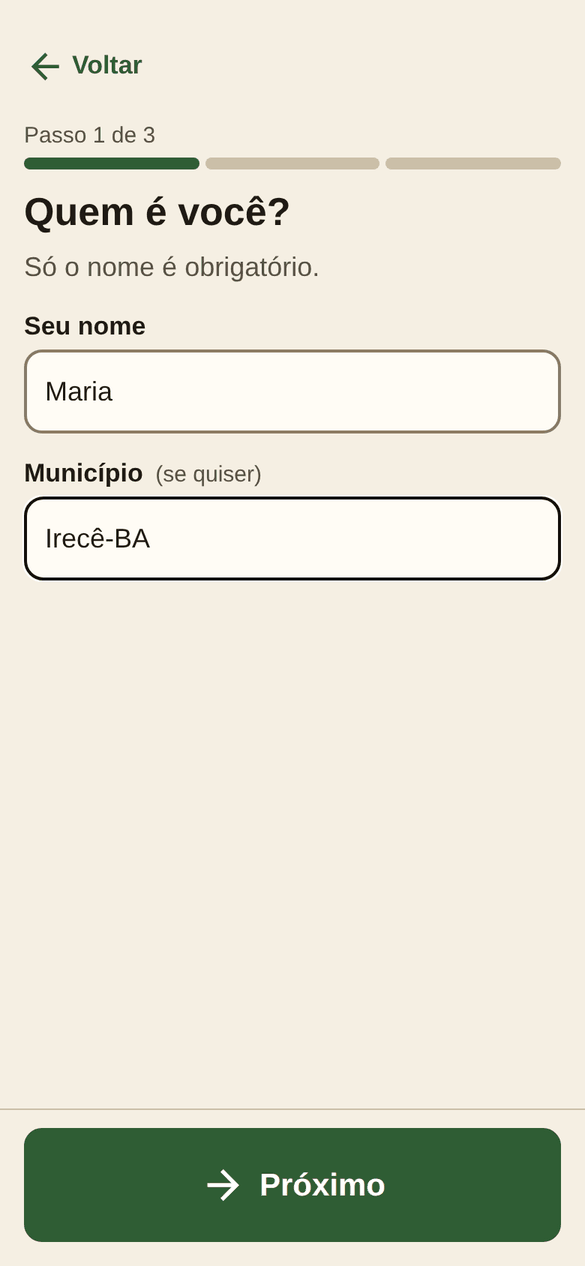
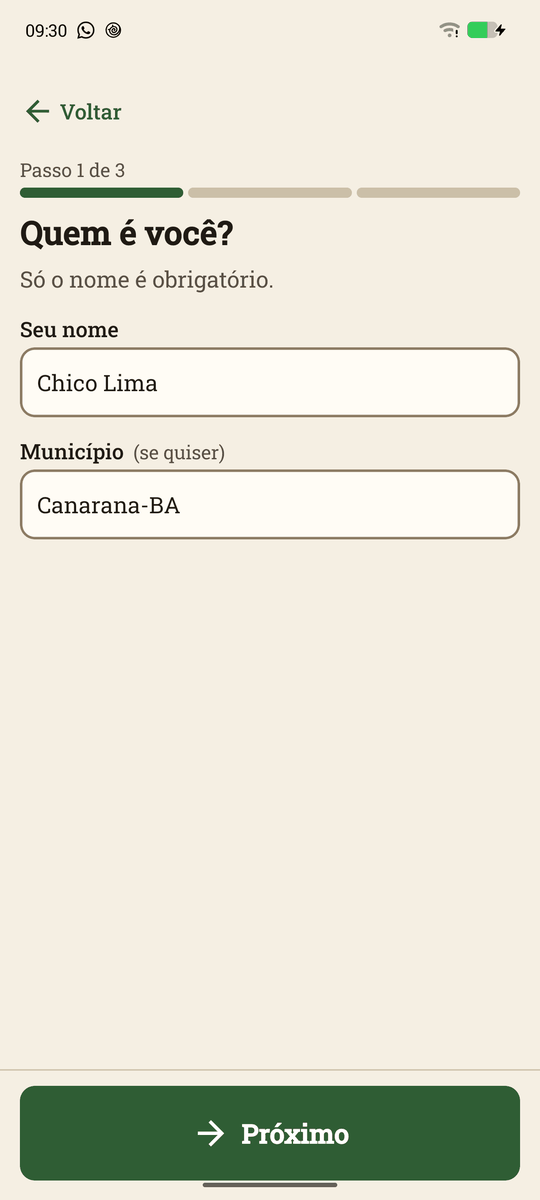
docs: telas capturadas no celular e galeria organizada por fluxo no README

diff --git a/docs/telas/README.md b/docs/telas/README.md
@@ -1,99 +1,176 @@
 # Telas
 
-As 31 capturas do aplicativo, numeradas na ordem em que a pessoa encontra cada tela. O nome do arquivo segue o mesmo número. O passo a passo completo de cada tela está em [fluxos.md](../fluxos.md).
+As 31 telas do aplicativo, numeradas na ordem em que a pessoa encontra cada uma. O nome do arquivo segue o mesmo número. As capturas foram tiradas num celular Android com o app instalado, usando produtores fictícios (os dados de exemplo do próprio app e um cadastro de teste). O passo a passo completo está em [fluxos.md](../fluxos.md).
 
 | Parte | Telas |
 | --- | --- |
-| Primeiro uso | 01 a 05 |
-| Início | 06 a 07 |
-| Anotar | 08 a 15 |
-| Caderno, resumos e colheita | 16 a 19 |
-| Visita de pares | 20 |
-| Mais | 21 a 28 |
-| Ligar um celular a um caderno que já existe | 29 a 30 |
-| Outras | 31 |
+| [Primeiro uso](#primeiro-uso) | 01 a 05 |
+| [Início](#início) | 06 a 07 |
+| [Anotar](#anotar) | 08 a 15 |
+| [Caderno, resumos e colheita](#caderno-resumos-e-colheita) | 16 a 19 |
+| [Visita de pares](#visita-de-pares) | 20 |
+| [Mais](#mais) | 21 a 28 |
+| [Ligar um celular a um caderno que já existe](#ligar-um-celular-a-um-caderno-que-já-existe) | 29 a 30 |
+| [Outras](#outras) | 31 |
 
 ## Primeiro uso
 
 Aparece só na primeira vez que o app é aberto.
 
-| Nº | Tela | Como chegar | O que faz | Captura |
-| --- | --- | --- | --- | --- |
-| 01 | **Boas-vindas** | Abrir o app pela primeira vez | Explica o app em três frases. Daqui dá para começar, ver com dados de exemplo ou ligar um caderno que já existe. | <a href="01-boas-vindas.png"><img src="01-boas-vindas.png" alt="Boas-vindas" width="160"></a> |
-| 02 | **Passo 1: Quem é você?** | Tocar em Começar | Nome e município do produtor. | <a href="02-cadastro-nome.png"><img src="02-cadastro-nome.png" alt="Passo 1: Quem é você?" width="160"></a> |
-| 03 | **Passo 2: Sua certificação** | Avançar do passo 1 | Cooperativa ou núcleo e dados da certificação participativa. Tudo opcional. | <a href="03-cadastro-certificacao.png"><img src="03-cadastro-certificacao.png" alt="Passo 2: Sua certificação" width="160"></a> |
-| 04 | **Passo 3: Sua roça** | Avançar do passo 2 | Áreas e culturas que vão aparecer na hora de anotar. | <a href="04-cadastro-roca.png"><img src="04-cadastro-roca.png" alt="Passo 3: Sua roça" width="160"></a> |
-| 05 | **Guardar uma cópia na internet?** | Terminar o passo 3 | Pergunta única, sem e-mail nem senha. Quem recusa continua usando o app só no celular. | <a href="05-cadastro-copia-internet.png"><img src="05-cadastro-copia-internet.png" alt="Guardar uma cópia na internet?" width="160"></a> |
+<table>
+  <tr>
+    <td align="center" valign="top"><a href="01-boas-vindas.png"><img src="01-boas-vindas.png" alt="Boas-vindas" width="200"></a><br><sub><b>01</b> · Boas-vindas</sub></td>
+    <td align="center" valign="top"><a href="02-cadastro-nome.png"><img src="02-cadastro-nome.png" alt="Passo 1: Quem é você?" width="200"></a><br><sub><b>02</b> · Passo 1: Quem é você?</sub></td>
+    <td align="center" valign="top"><a href="03-cadastro-certificacao.png"><img src="03-cadastro-certificacao.png" alt="Passo 2: Sua certificação" width="200"></a><br><sub><b>03</b> · Passo 2: Sua certificação</sub></td>
+    <td align="center" valign="top"><a href="04-cadastro-roca.png"><img src="04-cadastro-roca.png" alt="Passo 3: Sua roça" width="200"></a><br><sub><b>04</b> · Passo 3: Sua roça</sub></td>
+  </tr>
+  <tr>
+    <td align="center" valign="top"><a href="05-cadastro-copia-internet.png"><img src="05-cadastro-copia-internet.png" alt="Guardar uma cópia na internet?" width="200"></a><br><sub><b>05</b> · Guardar uma cópia na internet?</sub></td>
+  </tr>
+</table>
+
+| Nº | Tela | Como chegar | O que faz |
+| --- | --- | --- | --- |
+| 01 | **Boas-vindas** | Abrir o app pela primeira vez | Explica o app em três frases. Daqui dá para começar, ver com dados de exemplo ou ligar um caderno que já existe. |
+| 02 | **Passo 1: Quem é você?** | Tocar em Começar | Nome e município do produtor. |
+| 03 | **Passo 2: Sua certificação** | Avançar do passo 1 | Cooperativa ou núcleo e dados da certificação participativa. Tudo opcional. |
+| 04 | **Passo 3: Sua roça** | Avançar do passo 2 | Áreas e culturas que vão aparecer na hora de anotar. |
+| 05 | **Guardar uma cópia na internet?** | Terminar o passo 3 | Pergunta única, sem e-mail nem senha. Quem recusa continua usando o app só no celular. |
 
 ## Início
 
 Primeira aba. É onde o app abre no dia a dia.
 
-| Nº | Tela | Como chegar | O que faz | Captura |
-| --- | --- | --- | --- | --- |
-| 06 | **Início** | Abrir o app | Resumo da semana, atalho grande para anotar e o indicador da cópia na internet. | <a href="06-inicio.png"><img src="06-inicio.png" alt="Início" width="160"></a> |
-| 07 | **Início com a cópia ligada** | Abrir o app com a cópia na internet aceita | O indicador mostra "Tudo guardado na internet". | <a href="07-inicio-copia-ligada.png"><img src="07-inicio-copia-ligada.png" alt="Início com a cópia ligada" width="160"></a> |
+<table>
+  <tr>
+    <td align="center" valign="top"><a href="06-inicio.png"><img src="06-inicio.png" alt="Início" width="200"></a><br><sub><b>06</b> · Início</sub></td>
+    <td align="center" valign="top"><a href="07-inicio-copia-ligada.png"><img src="07-inicio-copia-ligada.png" alt="Início com a cópia ligada" width="200"></a><br><sub><b>07</b> · Início com a cópia ligada</sub></td>
+  </tr>
+</table>
+
+| Nº | Tela | Como chegar | O que faz |
+| --- | --- | --- | --- |
+| 06 | **Início** | Abrir o app | Resumo da semana, atalho grande para anotar e o indicador da cópia na internet. |
+| 07 | **Início com a cópia ligada** | Abrir o app com a cópia na internet aceita | O indicador mostra "Tudo guardado na internet". |
 
 ## Anotar
 
 Passo a passo de uma anotação, uma escolha por tela. Abre pelo botão Anotar da barra de baixo.
 
-| Nº | Tela | Como chegar | O que faz | Captura |
-| --- | --- | --- | --- | --- |
-| 08 | **Onde foi?** | Tocar em Anotar | Escolha da área. O app lembra a última usada. | <a href="08-anotar-1-area.png"><img src="08-anotar-1-area.png" alt="Onde foi?" width="160"></a> |
-| 09 | **Qual cultura?** | Escolher a área | Culturas da roça, com as mais usadas no topo. | <a href="09-anotar-2-cultura.png"><img src="09-anotar-2-cultura.png" alt="Qual cultura?" width="160"></a> |
-| 10 | **O que você fez?** | Escolher a cultura | Plantio, adubação ou calda, rega, capina, colheita, venda, compra ou outra. | <a href="10-anotar-3-atividade.png"><img src="10-anotar-3-atividade.png" alt="O que você fez?" width="160"></a> |
-| 11 | **De onde veio a semente?** | Escolher Plantio | Detalhe que só aparece para a atividade escolhida. Aqui, a origem da semente. | <a href="11-anotar-4-origem-semente.png"><img src="11-anotar-4-origem-semente.png" alt="De onde veio a semente?" width="160"></a> |
-| 12 | **Quanto?** | Avançar dos detalhes | Teclado numérico grande do próprio app e a unidade. | <a href="12-anotar-5-quantidade.png"><img src="12-anotar-5-quantidade.png" alt="Quanto?" width="160"></a> |
-| 13 | **Confira e salve** | Informar a quantidade | A anotação em uma frase, com data e observação. | <a href="13-anotar-6-revisao.png"><img src="13-anotar-6-revisao.png" alt="Confira e salve" width="160"></a> |
-| 14 | **Confira e salve: recado de voz e foto** | Rolar a tela de revisão | Gravar um recado de até 60 segundos e juntar uma foto. | <a href="14-anotar-7-revisao-recado-e-foto.png"><img src="14-anotar-7-revisao-recado-e-foto.png" alt="Confira e salve: recado de voz e foto" width="160"></a> |
-| 15 | **Anotado!** | Tocar em Salvar | Confirmação, com o botão Desfazer e o atalho para anotar outra. | <a href="15-anotar-8-anotado.png"><img src="15-anotar-8-anotado.png" alt="Anotado!" width="160"></a> |
+<table>
+  <tr>
+    <td align="center" valign="top"><a href="08-anotar-1-area.png"><img src="08-anotar-1-area.png" alt="Onde foi?" width="200"></a><br><sub><b>08</b> · Onde foi?</sub></td>
+    <td align="center" valign="top"><a href="09-anotar-2-cultura.png"><img src="09-anotar-2-cultura.png" alt="Qual cultura?" width="200"></a><br><sub><b>09</b> · Qual cultura?</sub></td>
+    <td align="center" valign="top"><a href="10-anotar-3-atividade.png"><img src="10-anotar-3-atividade.png" alt="O que você fez?" width="200"></a><br><sub><b>10</b> · O que você fez?</sub></td>
+    <td align="center" valign="top"><a href="11-anotar-4-origem-semente.png"><img src="11-anotar-4-origem-semente.png" alt="De onde veio a semente?" width="200"></a><br><sub><b>11</b> · De onde veio a semente?</sub></td>
+  </tr>
+  <tr>
+    <td align="center" valign="top"><a href="12-anotar-5-quantidade.png"><img src="12-anotar-5-quantidade.png" alt="Quanto?" width="200"></a><br><sub><b>12</b> · Quanto?</sub></td>
+    <td align="center" valign="top"><a href="13-anotar-6-revisao.png"><img src="13-anotar-6-revisao.png" alt="Confira e salve" width="200"></a><br><sub><b>13</b> · Confira e salve</sub></td>
+    <td align="center" valign="top"><a href="14-anotar-7-revisao-recado-e-foto.png"><img src="14-anotar-7-revisao-recado-e-foto.png" alt="Confira e salve: recado de voz e foto" width="200"></a><br><sub><b>14</b> · Confira e salve: recado de voz e foto</sub></td>
+    <td align="center" valign="top"><a href="15-anotar-8-anotado.png"><img src="15-anotar-8-anotado.png" alt="Anotado!" width="200"></a><br><sub><b>15</b> · Anotado!</sub></td>
+  </tr>
+</table>
+
+| Nº | Tela | Como chegar | O que faz |
+| --- | --- | --- | --- |
+| 08 | **Onde foi?** | Tocar em Anotar | Escolha da área. O app lembra a última usada. |
+| 09 | **Qual cultura?** | Escolher a área | Culturas da roça, com as mais usadas no topo. |
+| 10 | **O que você fez?** | Escolher a cultura | Plantio, adubação ou calda, rega, capina, colheita, venda, compra ou outra. |
+| 11 | **De onde veio a semente?** | Escolher Plantio | Detalhe que só aparece para a atividade escolhida. Aqui, a origem da semente. |
+| 12 | **Quanto?** | Avançar dos detalhes | Teclado numérico grande do próprio app e a unidade. |
+| 13 | **Confira e salve** | Informar a quantidade | A anotação em uma frase, com data e observação. |
+| 14 | **Confira e salve: recado de voz e foto** | Rolar a tela de revisão | Recado de até 60 segundos, que dá para ouvir, regravar e apagar antes de salvar, e a foto pela câmera ou galeria. |
+| 15 | **Anotado!** | Tocar em Salvar | Confirmação, com o botão Desfazer e o atalho para anotar outra. |
 
 ## Caderno, resumos e colheita
 
 O que o app devolve a partir das anotações.
 
-| Nº | Tela | Como chegar | O que faz | Captura |
-| --- | --- | --- | --- | --- |
-| 16 | **Caderno** | Aba Caderno | Histórico por dia. Tocar numa anotação abre para ouvir o recado, editar ou apagar. | <a href="16-caderno.png"><img src="16-caderno.png" alt="Caderno" width="160"></a> |
-| 17 | **Filtros do caderno** | Tocar em Filtrar, no Caderno | Filtra por área, cultura e atividade. | <a href="17-caderno-filtros.png"><img src="17-caderno-filtros.png" alt="Filtros do caderno" width="160"></a> |
-| 18 | **Resumos** | Aba Resumos | Semana ou mês na ordem do caderno de campo, com a caixa "Passei para o caderno" e o PDF. | <a href="18-resumos.png"><img src="18-resumos.png" alt="Resumos" width="160"></a> |
-| 19 | **Colheita e venda** | Cartão Colheita e venda, em Resumos, ou pelo Mais | Por cultura: quanto colheu, vendeu, recebeu e o que sobrou. | <a href="19-colheita-venda.png"><img src="19-colheita-venda.png" alt="Colheita e venda" width="160"></a> |
+<table>
+  <tr>
+    <td align="center" valign="top"><a href="16-caderno.png"><img src="16-caderno.png" alt="Caderno" width="200"></a><br><sub><b>16</b> · Caderno</sub></td>
+    <td align="center" valign="top"><a href="17-caderno-filtros.png"><img src="17-caderno-filtros.png" alt="Filtros do caderno" width="200"></a><br><sub><b>17</b> · Filtros do caderno</sub></td>
+    <td align="center" valign="top"><a href="18-resumos.png"><img src="18-resumos.png" alt="Resumos" width="200"></a><br><sub><b>18</b> · Resumos</sub></td>
+    <td align="center" valign="top"><a href="19-colheita-venda.png"><img src="19-colheita-venda.png" alt="Colheita e venda" width="200"></a><br><sub><b>19</b> · Colheita e venda</sub></td>
+  </tr>
+</table>
+
+| Nº | Tela | Como chegar | O que faz |
+| --- | --- | --- | --- |
+| 16 | **Caderno** | Aba Caderno | Histórico por dia. Tocar numa anotação abre para ouvir o recado, editar ou apagar. |
+| 17 | **Filtros do caderno** | Tocar em Filtrar, no Caderno | Filtra por área, cultura e atividade. |
+| 18 | **Resumos** | Aba Resumos | Semana ou mês na ordem do caderno de campo, com a caixa "Passei para o caderno" e o PDF. |
+| 19 | **Colheita e venda** | Cartão Colheita e venda, em Resumos, ou pelo Mais | Por cultura: quanto colheu, vendeu, recebeu e o que sobrou. |
 
 ## Visita de pares
 
 Apoio para a visita. Não substitui o roteiro do grupo.
 
-| Nº | Tela | Como chegar | O que faz | Captura |
-| --- | --- | --- | --- | --- |
-| 20 | **Pronto para a visita** | Aba Visita | Itens conferidos sozinhos a partir das anotações, itens que o produtor marca e o PDF para a visita. | <a href="20-visita.png"><img src="20-visita.png" alt="Pronto para a visita" width="160"></a> |
+<table>
+  <tr>
+    <td align="center" valign="top"><a href="20-visita.png"><img src="20-visita.png" alt="Pronto para a visita" width="200"></a><br><sub><b>20</b> · Pronto para a visita</sub></td>
+  </tr>
+</table>
+
+| Nº | Tela | Como chegar | O que faz |
+| --- | --- | --- | --- |
+| 20 | **Pronto para a visita** | Aba Visita | Itens conferidos sozinhos a partir das anotações, itens que o produtor marca e o PDF para a visita. |
 
 ## Mais
 
 Última aba. Reúne cadastro, ficha e cópias.
 
-| Nº | Tela | Como chegar | O que faz | Captura |
-| --- | --- | --- | --- | --- |
-| 21 | **Mais** | Aba Mais | Menu com Meus dados, Áreas e culturas, Minha ficha, Cópia na internet, Cópia de segurança, Colheita e venda e Sobre. | <a href="21-mais.png"><img src="21-mais.png" alt="Mais" width="160"></a> |
-| 22 | **Meus dados** | Mais → Meus dados | Os mesmos dados do cadastro, para corrigir quando precisar. | <a href="22-meus-dados.png"><img src="22-meus-dados.png" alt="Meus dados" width="160"></a> |
-| 23 | **Áreas e culturas** | Mais → Áreas e culturas | Incluir, renomear e tirar áreas e culturas. | <a href="23-areas-e-culturas.png"><img src="23-areas-e-culturas.png" alt="Áreas e culturas" width="160"></a> |
-| 24 | **Minha ficha (QR)** | Mais → Minha ficha | QR para o comprador ler, link para compartilhar e cartão em PDF. | <a href="24-minha-ficha-qr.png"><img src="24-minha-ficha-qr.png" alt="Minha ficha (QR)" width="160"></a> |
-| 25 | **Cópia de segurança** | Mais → Cópia de segurança | Fotos das páginas do caderno de papel e exportar ou importar tudo num arquivo. | <a href="25-copia-de-seguranca.png"><img src="25-copia-de-seguranca.png" alt="Cópia de segurança" width="160"></a> |
-| 26 | **Cópia na internet: ligar outro celular** | Mais → Cópia na internet | Situação do envio e o QR (ou código) que leva o caderno para outro aparelho. | <a href="26-copia-na-internet-ligar-outro-celular.png"><img src="26-copia-na-internet-ligar-outro-celular.png" alt="Cópia na internet: ligar outro celular" width="160"></a> |
-| 27 | **Cópia na internet: cartão, parar e apagar** | Rolar a tela Cópia na internet | Cartão de recuperação para imprimir, parar de guardar e apagar a cópia. | <a href="27-copia-na-internet-cartao-e-apagar.png"><img src="27-copia-na-internet-cartao-e-apagar.png" alt="Cópia na internet: cartão, parar e apagar" width="160"></a> |
-| 28 | **Sobre o app** | Mais → Sobre | O que o app é e o que ele não faz. | <a href="28-sobre.png"><img src="28-sobre.png" alt="Sobre o app" width="160"></a> |
+<table>
+  <tr>
+    <td align="center" valign="top"><a href="21-mais.png"><img src="21-mais.png" alt="Mais" width="200"></a><br><sub><b>21</b> · Mais</sub></td>
+    <td align="center" valign="top"><a href="22-meus-dados.png"><img src="22-meus-dados.png" alt="Meus dados" width="200"></a><br><sub><b>22</b> · Meus dados</sub></td>
+    <td align="center" valign="top"><a href="23-areas-e-culturas.png"><img src="23-areas-e-culturas.png" alt="Áreas e culturas" width="200"></a><br><sub><b>23</b> · Áreas e culturas</sub></td>
+    <td align="center" valign="top"><a href="24-minha-ficha-qr.png"><img src="24-minha-ficha-qr.png" alt="Minha ficha (QR)" width="200"></a><br><sub><b>24</b> · Minha ficha (QR)</sub></td>
+  </tr>
+  <tr>
+    <td align="center" valign="top"><a href="25-copia-de-seguranca.png"><img src="25-copia-de-seguranca.png" alt="Cópia de segurança" width="200"></a><br><sub><b>25</b> · Cópia de segurança</sub></td>
+    <td align="center" valign="top"><a href="26-copia-na-internet.png"><img src="26-copia-na-internet.png" alt="Cópia na internet" width="200"></a><br><sub><b>26</b> · Cópia na internet</sub></td>
+    <td align="center" valign="top"><a href="27-copia-na-internet-codigo-para-ligar.png"><img src="27-copia-na-internet-codigo-para-ligar.png" alt="Código para ligar outro celular" width="200"></a><br><sub><b>27</b> · Código para ligar outro celular</sub></td>
+    <td align="center" valign="top"><a href="28-sobre.png"><img src="28-sobre.png" alt="Sobre o app" width="200"></a><br><sub><b>28</b> · Sobre o app</sub></td>
+  </tr>
+</table>
+
+| Nº | Tela | Como chegar | O que faz |
+| --- | --- | --- | --- |
+| 21 | **Mais** | Aba Mais | Menu com Meus dados, Áreas e culturas, Minha ficha, Cópia na internet, Cópia de segurança, Colheita e venda e Sobre. No fim da tela fica o tamanho da letra. |
+| 22 | **Meus dados** | Mais → Meus dados | Os mesmos dados do cadastro, para corrigir quando precisar. |
+| 23 | **Áreas e culturas** | Mais → Áreas e culturas | Incluir, renomear e tirar áreas e culturas. |
+| 24 | **Minha ficha (QR)** | Mais → Minha ficha | QR para o comprador ler, link para compartilhar e cartão em PDF. |
+| 25 | **Cópia de segurança** | Mais → Cópia de segurança | Fotos das páginas do caderno de papel e exportar ou importar tudo num arquivo. |
+| 26 | **Cópia na internet** | Mais → Cópia na internet, ou tocar no indicador do Início | Situação do envio, ligar outro celular, cartão de recuperação para imprimir, parar de guardar e apagar a cópia. |
+| 27 | **Código para ligar outro celular** | Cópia na internet → Mostrar código para ligar | QR e código em texto que levam o mesmo caderno para outro aparelho, com o aviso de só mostrar para quem confia. |
+| 28 | **Sobre o app** | Mais → Sobre | O que o app é e o que ele não faz. |
 
 ## Ligar um celular a um caderno que já existe
 
 Para celular novo ou segundo aparelho.
 
-| Nº | Tela | Como chegar | O que faz | Captura |
-| --- | --- | --- | --- | --- |
-| 29 | **Já tenho um caderno** | Boas-vindas → Já tenho um caderno | Ler o código com a câmera ou colar o código no campo. | <a href="29-ja-tenho-um-caderno.png"><img src="29-ja-tenho-um-caderno.png" alt="Já tenho um caderno" width="160"></a> |
-| 30 | **Ligar este celular?** | Ler o QR ou colar um código válido | Confirmação antes de baixar o caderno para este aparelho. | <a href="30-ja-tenho-um-caderno-confirmar.png"><img src="30-ja-tenho-um-caderno-confirmar.png" alt="Ligar este celular?" width="160"></a> |
+<table>
+  <tr>
+    <td align="center" valign="top"><a href="29-ja-tenho-um-caderno.png"><img src="29-ja-tenho-um-caderno.png" alt="Já tenho um caderno" width="200"></a><br><sub><b>29</b> · Já tenho um caderno</sub></td>
+    <td align="center" valign="top"><a href="30-ja-tenho-um-caderno-confirmar.png"><img src="30-ja-tenho-um-caderno-confirmar.png" alt="Ligar este celular?" width="200"></a><br><sub><b>30</b> · Ligar este celular?</sub></td>
+  </tr>
+</table>
+
+| Nº | Tela | Como chegar | O que faz |
+| --- | --- | --- | --- |
+| 29 | **Já tenho um caderno** | Boas-vindas → Já tenho um caderno | Ler o código com a câmera ou colar o código no campo. |
+| 30 | **Ligar este celular?** | Ler o QR ou colar um código válido | Confirmação antes de baixar o caderno para este aparelho. |
 
 ## Outras
 
-| Nº | Tela | Como chegar | O que faz | Captura |
-| --- | --- | --- | --- | --- |
-| 31 | **Página não encontrada** | Abrir um endereço que não existe | Aviso simples com o caminho de volta para o Início. | <a href="31-pagina-nao-encontrada.png"><img src="31-pagina-nao-encontrada.png" alt="Página não encontrada" width="160"></a> |
+<table>
+  <tr>
+    <td align="center" valign="top"><a href="31-pagina-nao-encontrada.png"><img src="31-pagina-nao-encontrada.png" alt="Página não encontrada" width="200"></a><br><sub><b>31</b> · Página não encontrada</sub></td>
+  </tr>
+</table>
+
+| Nº | Tela | Como chegar | O que faz |
+| --- | --- | --- | --- |
+| 31 | **Página não encontrada** | Abrir um endereço que não existe | Aviso simples com o caminho de volta para o Início. |

diff --git a/README.md b/README.md
@@ -7,7 +7,7 @@ App Android que deixa o agricultor agroecológico anotar a roça na hora, com po
   <img src="docs/telas/10-anotar-3-atividade.png" alt="Anotar: escolha da atividade" width="200">
   <img src="docs/telas/18-resumos.png" alt="Resumo da semana na ordem do caderno" width="200">
   <img src="docs/telas/20-visita.png" alt="Lista de apoio para a visita de pares" width="200">
-  <img src="docs/telas/26-copia-na-internet-ligar-outro-celular.png" alt="Cópia na internet: código para ligar outro celular" width="200">
+  <img src="docs/telas/27-copia-na-internet-codigo-para-ligar.png" alt="Cópia na internet: código para ligar outro celular" width="200">
 </p>
 
 ## O problema
@@ -61,6 +61,119 @@ O Caderno de Bolso é um ajudante do caderno de campo, não um substituto. O pro
 - **Ligar outro celular:** um QR (ou código em texto) leva o mesmo caderno para outro aparelho, e o **cartão de recuperação** impresso guarda esse código em casa. Também dá para parar de guardar na internet ou apagar a cópia de lá.
 
 O passo a passo de cada tela, com o mapa de navegação e o fluxo principal em diagrama, está em [docs/fluxos.md](docs/fluxos.md). Todas as telas, numeradas na ordem de uso, estão em [docs/telas](docs/telas/README.md).
+
+<!-- telas:inicio -->
+## Telas
+
+As 31 telas do app, na ordem de uso, capturadas num celular Android. Toque numa imagem para ampliar. O índice com como chegar em cada tela e o que ela faz está em [docs/telas](docs/telas/README.md).
+
+### Primeiro uso
+
+Aparece só na primeira vez que o app é aberto.
+
+<table>
+  <tr>
+    <td align="center" valign="top"><a href="docs/telas/01-boas-vindas.png"><img src="docs/telas/01-boas-vindas.png" alt="Boas-vindas" width="170"></a><br><sub><b>01</b> · Boas-vindas</sub></td>
+    <td align="center" valign="top"><a href="docs/telas/02-cadastro-nome.png"><img src="docs/telas/02-cadastro-nome.png" alt="Passo 1: Quem é você?" width="170"></a><br><sub><b>02</b> · Passo 1: Quem é você?</sub></td>
+    <td align="center" valign="top"><a href="docs/telas/03-cadastro-certificacao.png"><img src="docs/telas/03-cadastro-certificacao.png" alt="Passo 2: Sua certificação" width="170"></a><br><sub><b>03</b> · Passo 2: Sua certificação</sub></td>
+    <td align="center" valign="top"><a href="docs/telas/04-cadastro-roca.png"><img src="docs/telas/04-cadastro-roca.png" alt="Passo 3: Sua roça" width="170"></a><br><sub><b>04</b> · Passo 3: Sua roça</sub></td>
+  </tr>
+  <tr>
+    <td align="center" valign="top"><a href="docs/telas/05-cadastro-copia-internet.png"><img src="docs/telas/05-cadastro-copia-internet.png" alt="Guardar uma cópia na internet?" width="170"></a><br><sub><b>05</b> · Guardar uma cópia na internet?</sub></td>
+  </tr>
+</table>
+
+### Início
+
+Primeira aba. É onde o app abre no dia a dia.
+
+<table>
+  <tr>
+    <td align="center" valign="top"><a href="docs/telas/06-inicio.png"><img src="docs/telas/06-inicio.png" alt="Início" width="170"></a><br><sub><b>06</b> · Início</sub></td>
+    <td align="center" valign="top"><a href="docs/telas/07-inicio-copia-ligada.png"><img src="docs/telas/07-inicio-copia-ligada.png" alt="Início com a cópia ligada" width="170"></a><br><sub><b>07</b> · Início com a cópia ligada</sub></td>
+  </tr>
+</table>
+
+### Anotar
+
+Passo a passo de uma anotação, uma escolha por tela. Abre pelo botão Anotar da barra de baixo.
+
+<table>
+  <tr>
+    <td align="center" valign="top"><a href="docs/telas/08-anotar-1-area.png"><img src="docs/telas/08-anotar-1-area.png" alt="Onde foi?" width="170"></a><br><sub><b>08</b> · Onde foi?</sub></td>
+    <td align="center" valign="top"><a href="docs/telas/09-anotar-2-cultura.png"><img src="docs/telas/09-anotar-2-cultura.png" alt="Qual cultura?" width="170"></a><br><sub><b>09</b> · Qual cultura?</sub></td>
+    <td align="center" valign="top"><a href="docs/telas/10-anotar-3-atividade.png"><img src="docs/telas/10-anotar-3-atividade.png" alt="O que você fez?" width="170"></a><br><sub><b>10</b> · O que você fez?</sub></td>
+    <td align="center" valign="top"><a href="docs/telas/11-anotar-4-origem-semente.png"><img src="docs/telas/11-anotar-4-origem-semente.png" alt="De onde veio a semente?" width="170"></a><br><sub><b>11</b> · De onde veio a semente?</sub></td>
+  </tr>
+  <tr>
+    <td align="center" valign="top"><a href="docs/telas/12-anotar-5-quantidade.png"><img src="docs/telas/12-anotar-5-quantidade.png" alt="Quanto?" width="170"></a><br><sub><b>12</b> · Quanto?</sub></td>
+    <td align="center" valign="top"><a href="docs/telas/13-anotar-6-revisao.png"><img src="docs/telas/13-anotar-6-revisao.png" alt="Confira e salve" width="170"></a><br><sub><b>13</b> · Confira e salve</sub></td>
+    <td align="center" valign="top"><a href="docs/telas/14-anotar-7-revisao-recado-e-foto.png"><img src="docs/telas/14-anotar-7-revisao-recado-e-foto.png" alt="Confira e salve: recado de voz e foto" width="170"></a><br><sub><b>14</b> · Confira e salve: recado de voz e foto</sub></td>
+    <td align="center" valign="top"><a href="docs/telas/15-anotar-8-anotado.png"><img src="docs/telas/15-anotar-8-anotado.png" alt="Anotado!" width="170"></a><br><sub><b>15</b> · Anotado!</sub></td>
+  </tr>
+</table>
+
+### Caderno, resumos e colheita
+
+O que o app devolve a partir das anotações.
+
+<table>
+  <tr>
+    <td align="center" valign="top"><a href="docs/telas/16-caderno.png"><img src="docs/telas/16-caderno.png" alt="Caderno" width="170"></a><br><sub><b>16</b> · Caderno</sub></td>
+    <td align="center" valign="top"><a href="docs/telas/17-caderno-filtros.png"><img src="docs/telas/17-caderno-filtros.png" alt="Filtros do caderno" width="170"></a><br><sub><b>17</b> · Filtros do caderno</sub></td>
+    <td align="center" valign="top"><a href="docs/telas/18-resumos.png"><img src="docs/telas/18-resumos.png" alt="Resumos" width="170"></a><br><sub><b>18</b> · Resumos</sub></td>
+    <td align="center" valign="top"><a href="docs/telas/19-colheita-venda.png"><img src="docs/telas/19-colheita-venda.png" alt="Colheita e venda" width="170"></a><br><sub><b>19</b> · Colheita e venda</sub></td>
+  </tr>
+</table>
+
+### Visita de pares
+
+Apoio para a visita. Não substitui o roteiro do grupo.
+
+<table>
+  <tr>
+    <td align="center" valign="top"><a href="docs/telas/20-visita.png"><img src="docs/telas/20-visita.png" alt="Pronto para a visita" width="170"></a><br><sub><b>20</b> · Pronto para a visita</sub></td>
+  </tr>
+</table>
+
+### Mais
+
+Última aba. Reúne cadastro, ficha e cópias.
+
+<table>
+  <tr>
+    <td align="center" valign="top"><a href="docs/telas/21-mais.png"><img src="docs/telas/21-mais.png" alt="Mais" width="170"></a><br><sub><b>21</b> · Mais</sub></td>
+    <td align="center" valign="top"><a href="docs/telas/22-meus-dados.png"><img src="docs/telas/22-meus-dados.png" alt="Meus dados" width="170"></a><br><sub><b>22</b> · Meus dados</sub></td>
+    <td align="center" valign="top"><a href="docs/telas/23-areas-e-culturas.png"><img src="docs/telas/23-areas-e-culturas.png" alt="Áreas e culturas" width="170"></a><br><sub><b>23</b> · Áreas e culturas</sub></td>
+    <td align="center" valign="top"><a href="docs/telas/24-minha-ficha-qr.png"><img src="docs/telas/24-minha-ficha-qr.png" alt="Minha ficha (QR)" width="170"></a><br><sub><b>24</b> · Minha ficha (QR)</sub></td>
+  </tr>
+  <tr>
+    <td align="center" valign="top"><a href="docs/telas/25-copia-de-seguranca.png"><img src="docs/telas/25-copia-de-seguranca.png" alt="Cópia de segurança" width="170"></a><br><sub><b>25</b> · Cópia de segurança</sub></td>
+    <td align="center" valign="top"><a href="docs/telas/26-copia-na-internet.png"><img src="docs/telas/26-copia-na-internet.png" alt="Cópia na internet" width="170"></a><br><sub><b>26</b> · Cópia na internet</sub></td>
+    <td align="center" valign="top"><a href="docs/telas/27-copia-na-internet-codigo-para-ligar.png"><img src="docs/telas/27-copia-na-internet-codigo-para-ligar.png" alt="Código para ligar outro celular" width="170"></a><br><sub><b>27</b> · Código para ligar outro celular</sub></td>
+    <td align="center" valign="top"><a href="docs/telas/28-sobre.png"><img src="docs/telas/28-sobre.png" alt="Sobre o app" width="170"></a><br><sub><b>28</b> · Sobre o app</sub></td>
+  </tr>
+</table>
+
+### Ligar um celular a um caderno que já existe
+
+Para celular novo ou segundo aparelho.
+
+<table>
+  <tr>
+    <td align="center" valign="top"><a href="docs/telas/29-ja-tenho-um-caderno.png"><img src="docs/telas/29-ja-tenho-um-caderno.png" alt="Já tenho um caderno" width="170"></a><br><sub><b>29</b> · Já tenho um caderno</sub></td>
+    <td align="center" valign="top"><a href="docs/telas/30-ja-tenho-um-caderno-confirmar.png"><img src="docs/telas/30-ja-tenho-um-caderno-confirmar.png" alt="Ligar este celular?" width="170"></a><br><sub><b>30</b> · Ligar este celular?</sub></td>
+  </tr>
+</table>
+
+### Outras
+
+<table>
+  <tr>
+    <td align="center" valign="top"><a href="docs/telas/31-pagina-nao-encontrada.png"><img src="docs/telas/31-pagina-nao-encontrada.png" alt="Página não encontrada" width="170"></a><br><sub><b>31</b> · Página não encontrada</sub></td>
+  </tr>
+</table>
+<!-- telas:fim -->
 
 ## Decisões de engenharia
 

diff --git a/docs/fluxos.md b/docs/fluxos.md
@@ -2,7 +2,7 @@
 
 Este documento descreve, tela por tela, o que o produtor vê, o que pode fazer e para onde cada ação leva. Ele foi escrito a partir das rotas do app (`src/app`). Se algum ponto divergir do app, vale o app.
 
-As capturas estão em [`docs/telas/`](telas/README.md), numeradas na ordem de uso e com um índice que diz como chegar em cada tela. Foram feitas com o app renderizado em tamanho de celular (390 × 844) e um produtor fictício. As telas "Cópia na internet" e "Já tenho um caderno" só existem no app instalado; as capturas delas usam um servidor simulado, e o código que aparece nelas não abre nenhum caderno.
+As capturas estão em [`docs/telas/`](telas/README.md), numeradas na ordem de uso e com um índice que diz como chegar em cada tela. Foram tiradas num celular Android com o app instalado, usando produtores fictícios: os dados de exemplo do próprio app e um cadastro de teste.
 
 ## Mapa geral de navegação
 
@@ -349,9 +349,9 @@ Funciona sem internet. O arquivo pode ser guardado no WhatsApp, no e-mail ou num
 
 ## Cópia na internet
 
-![Cópia na internet: ligar outro celular](telas/26-copia-na-internet-ligar-outro-celular.png)
+![Cópia na internet](telas/26-copia-na-internet.png)
 
-![Cópia na internet: cartão de recuperação, parar e apagar](telas/27-copia-na-internet-cartao-e-apagar.png)
+![Cópia na internet: código para ligar outro celular](telas/27-copia-na-internet-codigo-para-ligar.png)
 
 Só no app do celular. Você chega aqui por Mais, pelo indicador do Início ou de Mais, ou pela pergunta do primeiro uso.
 
